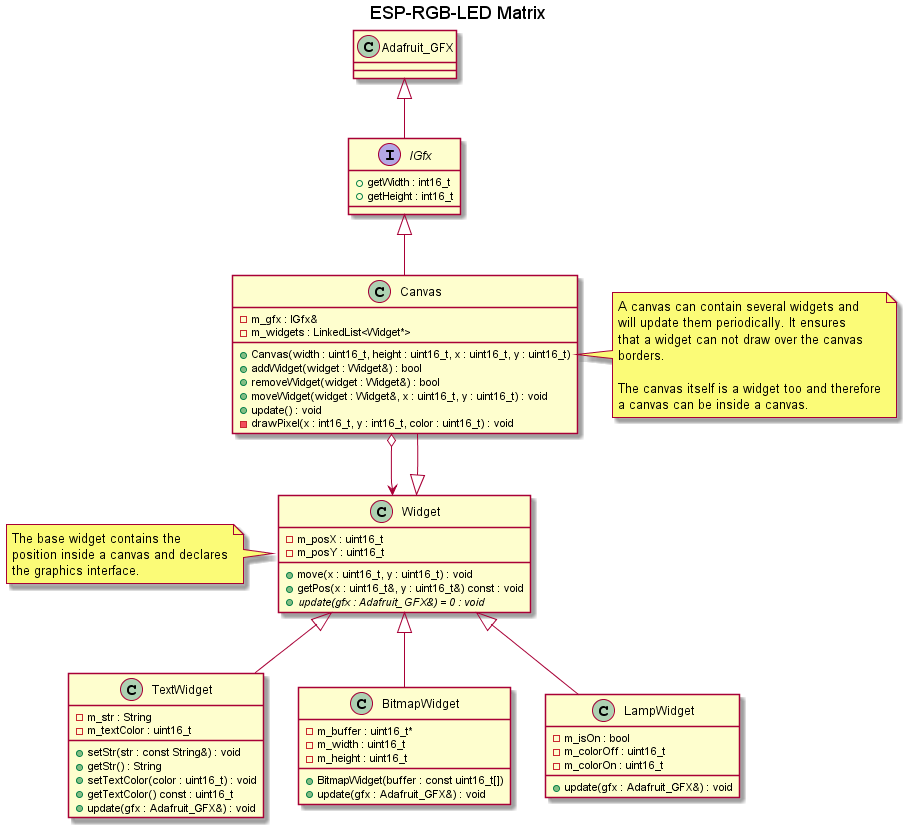
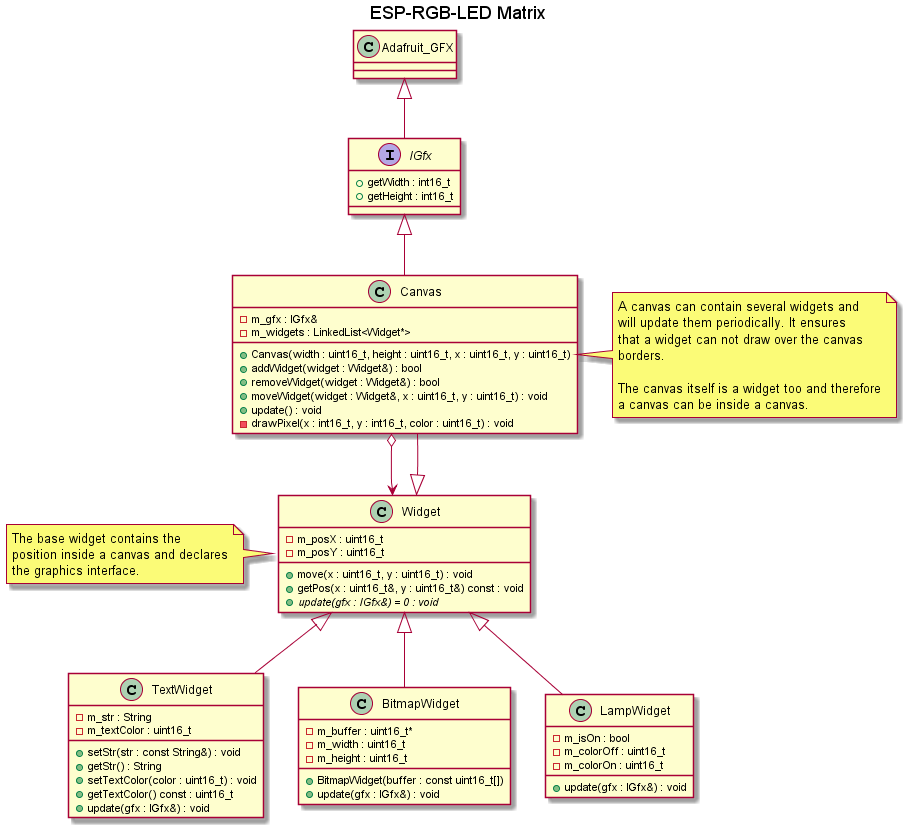
Every widget shall use the IGfx interface, instead of Adafruit_GFX.

diff --git a/src/Gfx/TextWidget.hpp b/src/Gfx/TextWidget.hpp
@@ -49,8 +49,8 @@ This module provides the a text widget, showing a colored string.
  * Includes
  *****************************************************************************/
 #include <stdint.h>
-#include <Adafruit_GFX.h>
 
+#include "IGfx.hpp"
 #include "Widget.hpp"
 
 /******************************************************************************
@@ -118,7 +118,7 @@ public:
      * 
      * @param[in] gfx Graphics interface
      */
-    void update(Adafruit_GFX& gfx)
+    void update(IGfx& gfx)
     {
         gfx.setCursor(m_posX, m_posY);
         gfx.setTextColor(m_textColor);

diff --git a/src/Gfx/BitmapWidget.hpp b/src/Gfx/BitmapWidget.hpp
@@ -49,8 +49,8 @@ This module provides the a bitmap widget.
  * Includes
  *****************************************************************************/
 #include <stdint.h>
-#include <Adafruit_GFX.h>
 
+#include "IGfx.hpp"
 #include "Widget.hpp"
 
 /******************************************************************************
@@ -123,7 +123,7 @@ public:
      * 
      * @param[in] gfx Graphics interface
      */
-    void update(Adafruit_GFX& gfx)
+    void update(IGfx& gfx)
     {
         gfx.drawRGBBitmap(m_posX, m_posY, m_buffer, m_width, m_height);
         return;
